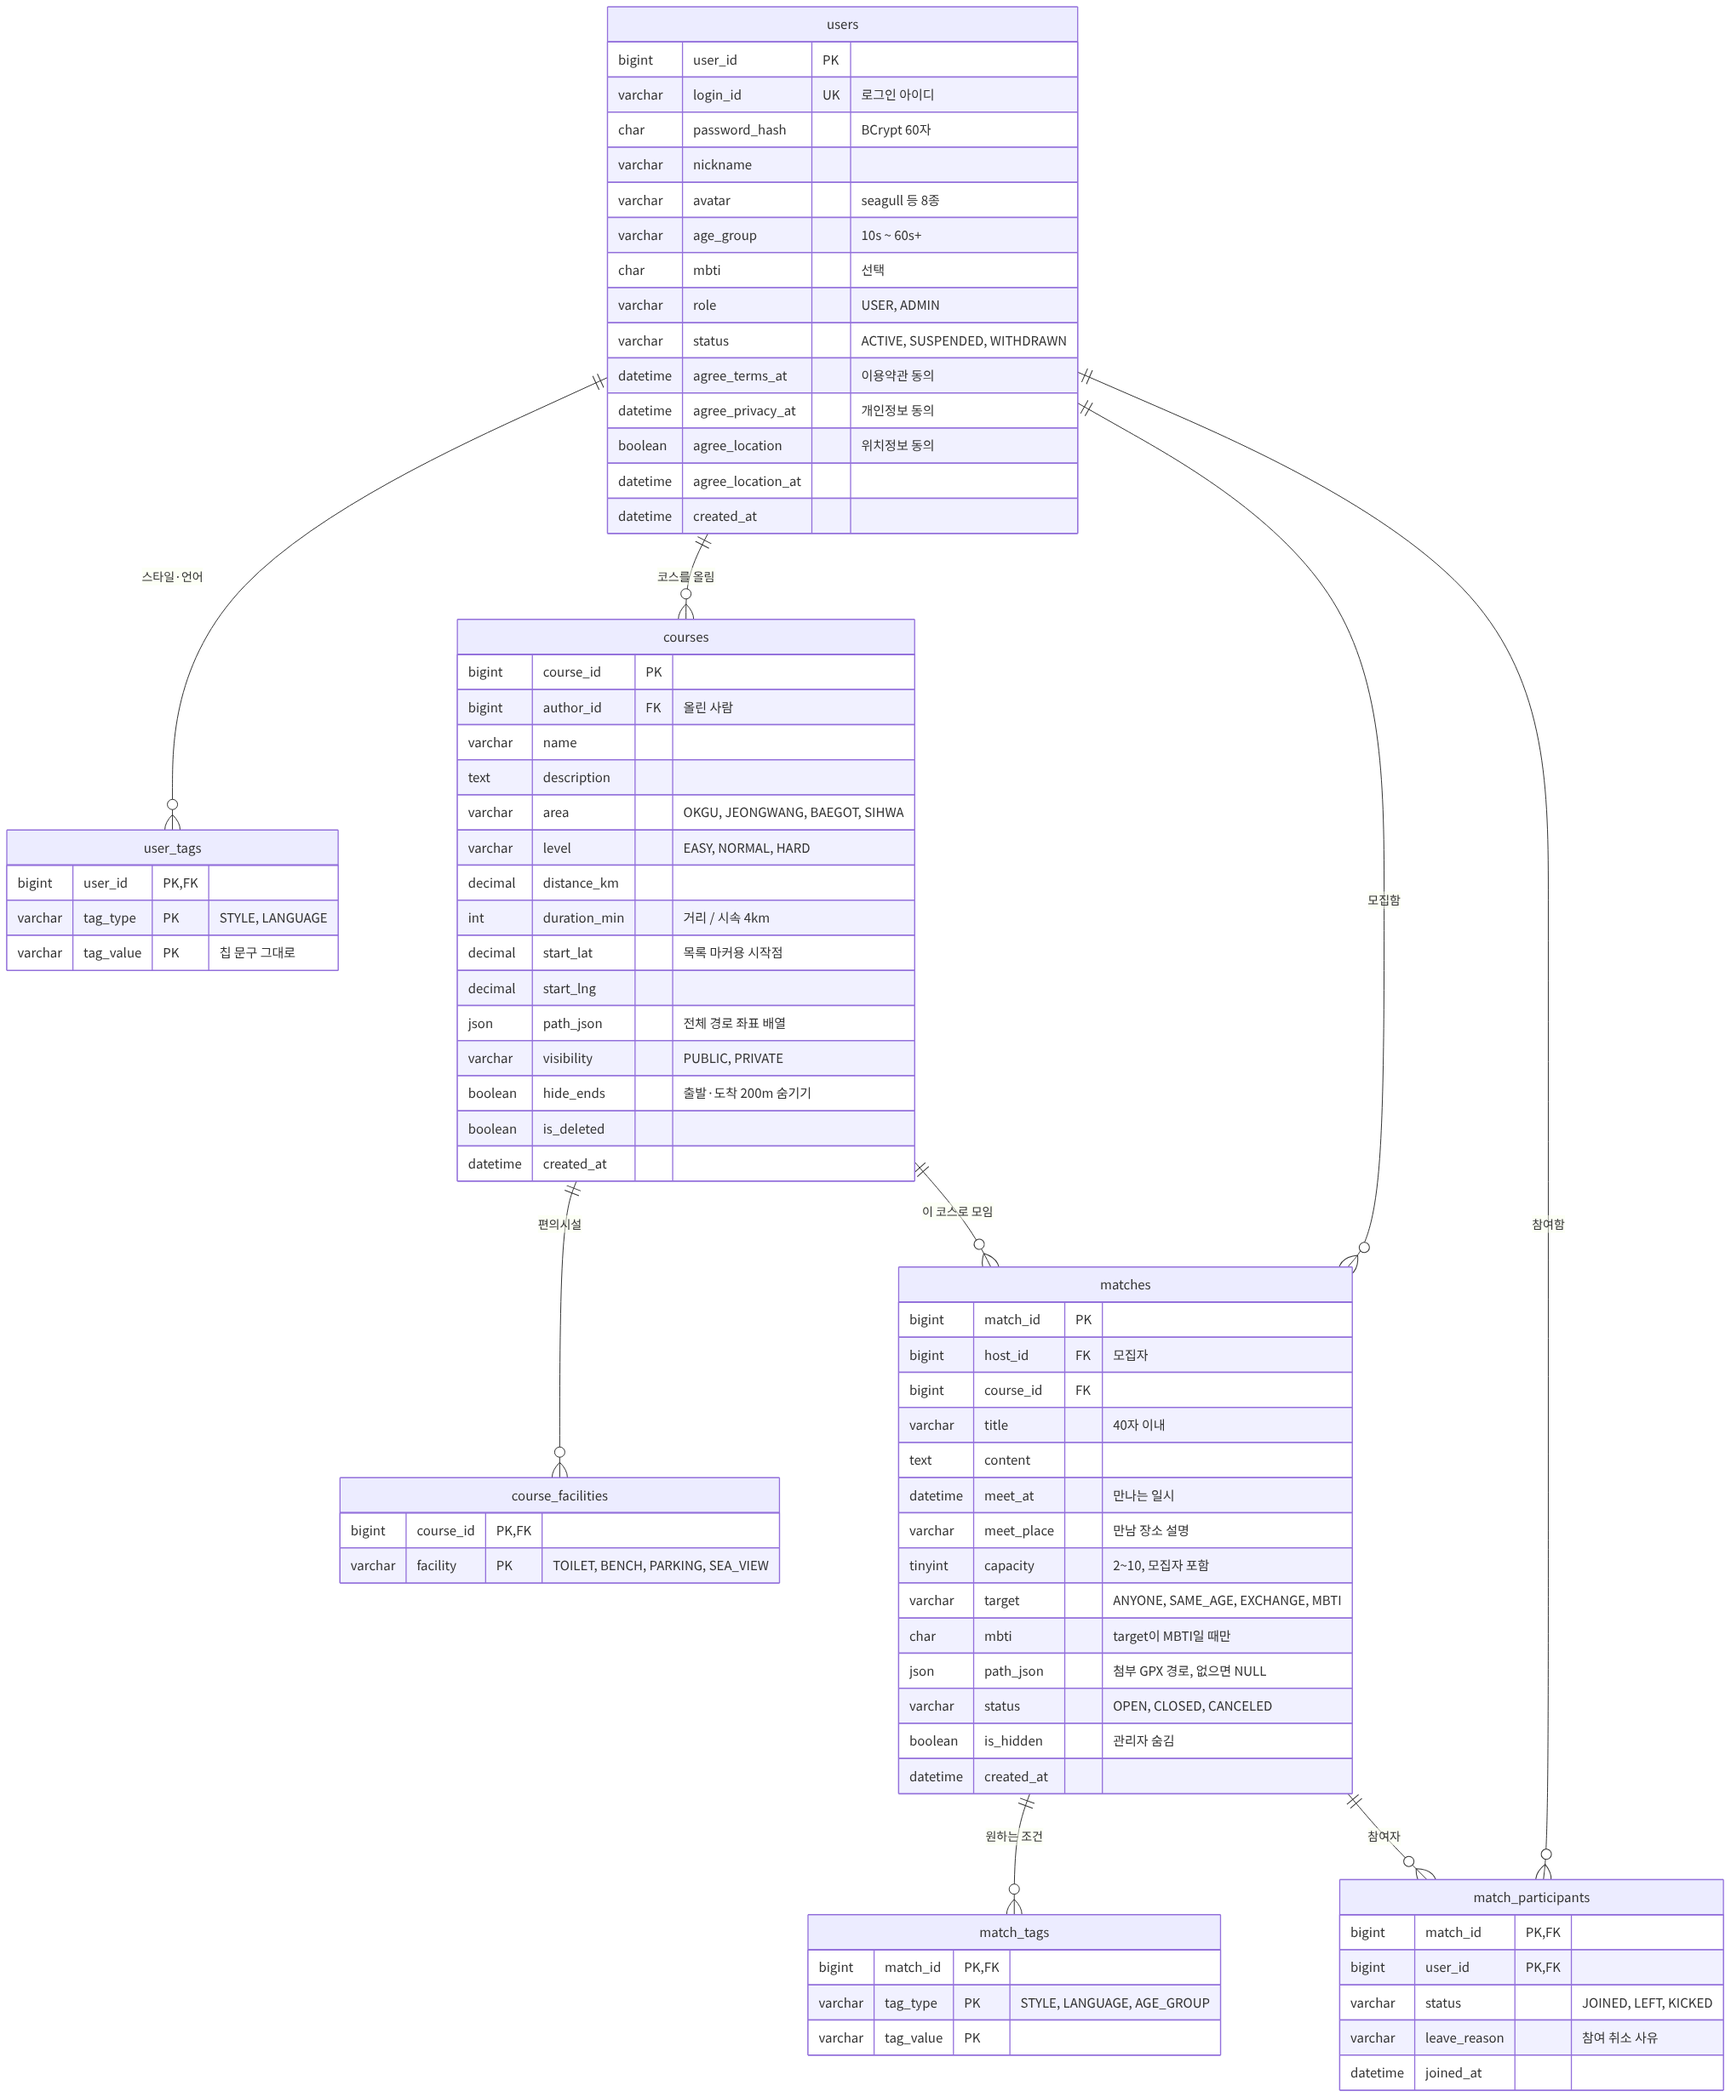
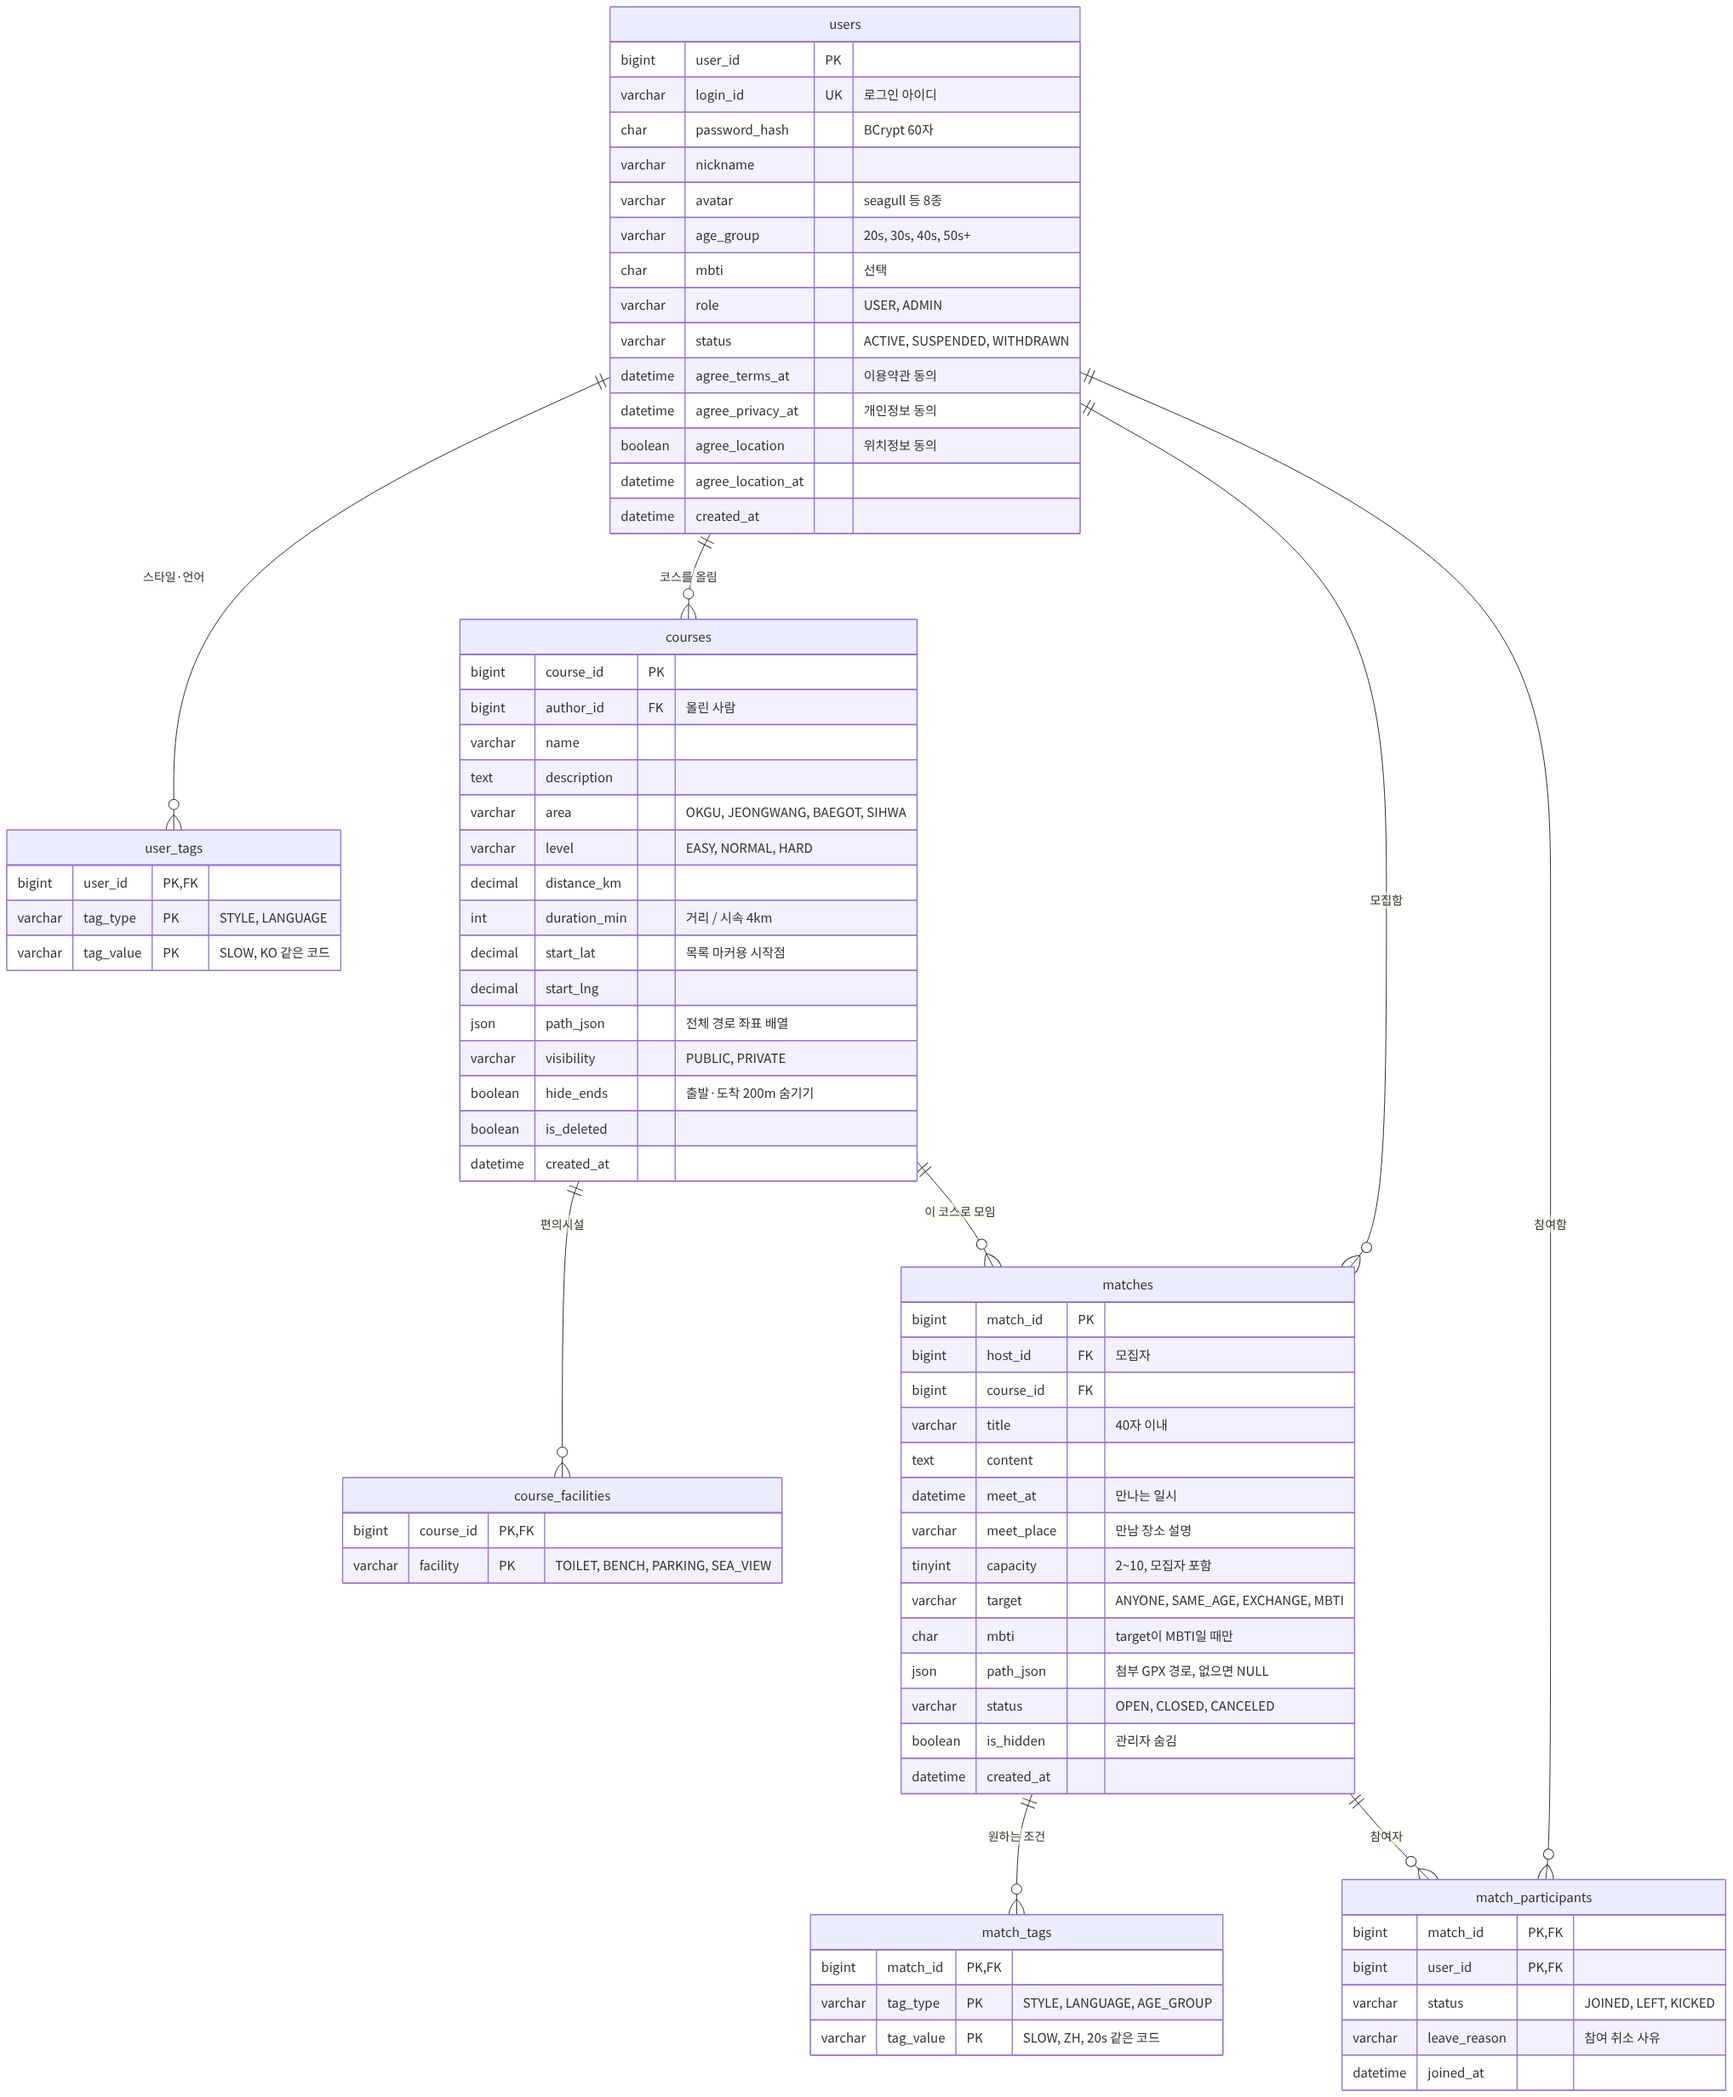
fix(db): 연령대·스타일·언어 값을 피그마 A4에 맞춤 (영어 코드로 저장)
- 연령대: 20s, 30s, 40s, 50s+ (피그마 A4: 20대 · 30대 · 40대 · 50대 이상)
- 산책 스타일: SLOW, FAST, QUIET, CHAT, PHOTO, SUNRISE_SUNSET, DOG
- 언어: KO, ZH, EN, VI, RU
- 화면 문구·이모지는 DB에 저장하지 않고 프론트가 코드에 맞춰 표시
- user_tags, match_tags 에 코드 검사 규칙 추가 (약속에 없는 값은 DB가 막음)
- seed.sql 태그를 코드로 변경, 1번 동행 내용에 中文 문장 추가 (check.sql 한글·中文 확인용)
- db/README.md 코드표 추가, ERD 그림 갱신

Claude-Session: https://claude.ai/code/session_01PVf1AhRAoQhu6MZZhNMM2i

diff --git a/db/README.md b/db/README.md
@@ -57,8 +57,18 @@
 ### 1. 이름과 값
 
 - **DB는 `snake_case`, JSON은 `camelCase`**: `age_group` ↔ `ageGroup`, `distance_km` ↔ `distanceKm`
-- 코드값은 **API 명세의 "값 약속"과 똑같은 영어 대문자**입니다 (`OKGU`, `EASY`, `EXCHANGE` …).
+- 코드값은 **API 명세의 "값 약속"과 똑같은 영어 코드**입니다 (`OKGU`, `EASY`, `EXCHANGE`, `SLOW`, `KO`, `20s` …).
+- **화면에 보이는 글자(이모지 포함)는 DB에 저장하지 않습니다.** DB와 API는 코드만 주고받고, 프론트가 코드에 맞는 문구를 붙여 보여 줍니다. 그래서 피그마 문구를 바꿔도 DB는 그대로입니다.
 - 약속에 없는 값을 넣으면 DB가 막습니다: `Check constraint 'chk_…' is violated`. 서블릿에서 먼저 검사해서 `400 INVALID_INPUT`으로 돌려주세요.
+
+**회원가입(A4) · 동행 모집에서 고르는 값** (피그마 A4 칩 기준)
+
+| 종류 | 코드 → 화면 문구 |
+| --- | --- |
+| 연령대 `age_group` / `AGE_GROUP` | `20s` 20대, `30s` 30대, `40s` 40대, `50s+` 50대 이상 |
+| 산책 스타일 `STYLE` (최대 3개) | `SLOW` 🐢 천천히, `FAST` 🏃 빠르게, `QUIET` 🤫 조용히, `CHAT` 💬 수다, `PHOTO` 📸 사진 찍으며, `SUNRISE_SUNSET` 🌅 일출 · 일몰, `DOG` 🐶 반려견과 |
+| 언어 `LANGUAGE` | `KO` 한국어, `ZH` 中文, `EN` English, `VI` Tiếng Việt, `RU` Русский |
+| MBTI `mbti` | `ENFP` 같은 4글자, 선택 안 함이면 `NULL` |
 
 ### 2. 여러 개 고르는 값은 태그 테이블
 
@@ -66,7 +76,7 @@
 
 - 저장: 그 회원(동행, 코스)의 태그를 **전부 지우고 다시 넣기**가 가장 간단합니다.
   `DELETE FROM user_tags WHERE user_id = ? AND tag_type = 'STYLE'` → 고른 개수만큼 `INSERT`
-- 필터 ("中文 가능한 동행만"): `EXISTS`로 찾습니다 → [쿼리 예시](#1주차-쿼리-예시)
+- 필터 ("中文(`ZH`) 가능한 동행만"): `EXISTS`로 찾습니다 → [쿼리 예시](#1주차-쿼리-예시)
 - 응답에서 배열로 만들 때: `GROUP_CONCAT(tag_value)` 결과를 쉼표로 나누거나, 태그만 따로 조회해서 자바에서 `List`로 묶기
 
 ### 3. 지우지 않습니다
@@ -230,7 +240,7 @@ FROM matches m JOIN v_match_status s ON s.match_id = m.match_id;
 
 | 번호 | 화면 상태 | 이걸로 확인할 것 |
 | --- | --- | --- |
-| 1 | OPEN 2/4 | GPX 첨부(`hasGpx: true`), 언어 `中文` 필터, 저녁 시간대 |
+| 1 | OPEN 2/4 | GPX 첨부(`hasGpx: true`), 언어 `ZH`(中文) 필터, 저녁 시간대, 내용에 中文 문장 |
 | 2 | OPEN 1/6 | 승민이 내보내짐(`KICKED`) → 다시 참여하면 `403` |
 | 3 | FULL 3/3 | 참여하면 `409 FULL` |
 | 4 | CLOSED 2/4 | MBTI(ISFP) 모집, 참여하면 `409 CLOSED` |
